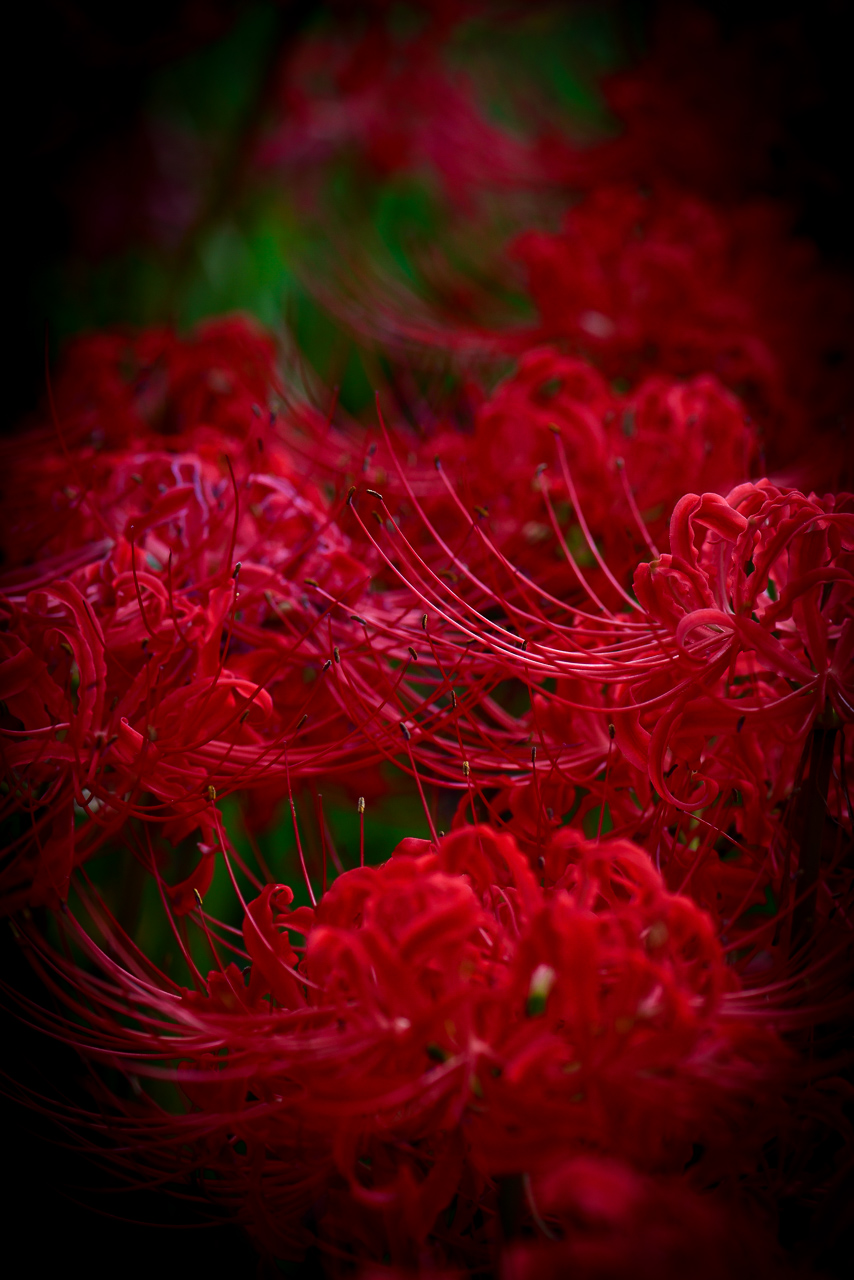
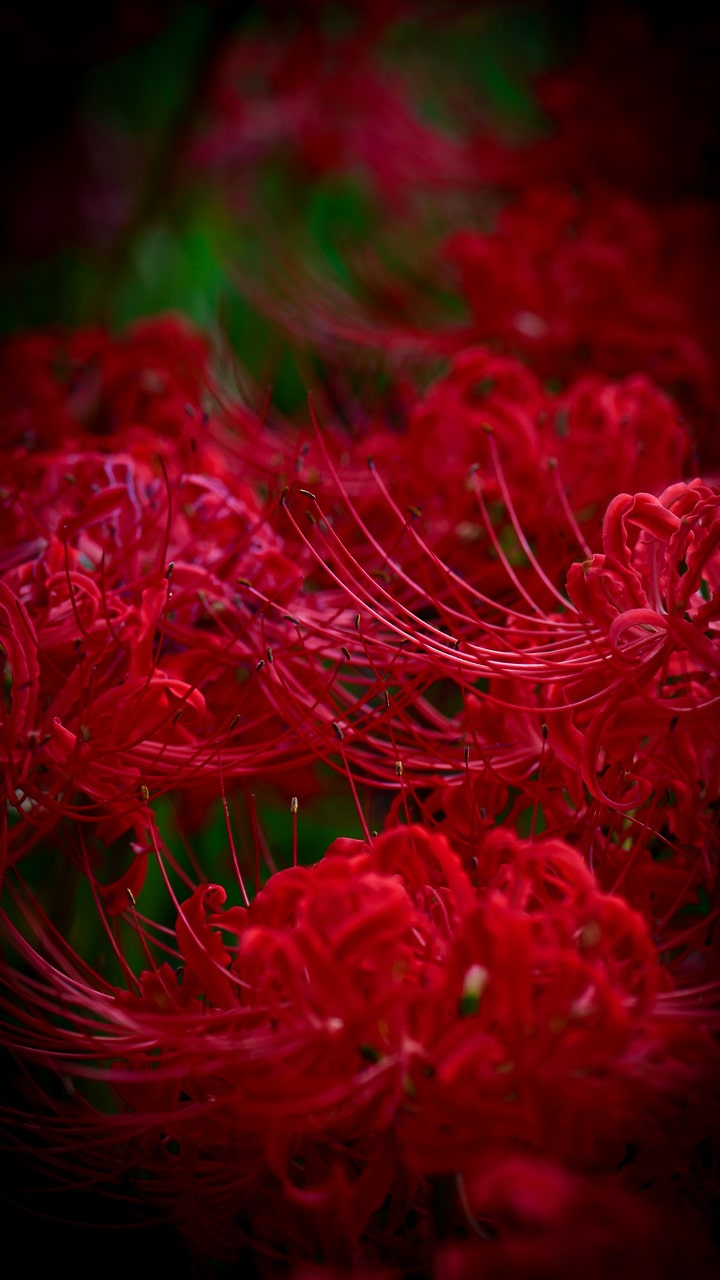
add image type

diff --git a/docs/index.html b/docs/index.html
@@ -85,7 +85,9 @@
     <amp-story standalone title="Joy of Pets" publisher="AMP tutorials" publisher-logo-src="assets/AMP-Brand-White-Icon.svg" poster-portrait-src="assets/cover.jpg">
       <amp-story-page id="cover">
         <amp-story-grid-layer template="fill">
-          <amp-img src="assets/cover_flower.webp" width="720" height="1280" layout="responsive"></amp-img>
+          <amp-img src="assets/cover_flower.webp" width="720" height="1280" layout="responsive">
+            <amp-img src="assets/cover_flower.jpg" width="720" height="1280" layout="responsive"></amp-img>
+          </amp-img>
         </amp-story-grid-layer>
         <amp-story-grid-layer template="vertical">
           <div animate-in="fly-in-top">
@@ -96,7 +98,9 @@
       </amp-story-page>
       <amp-story-page id="page1">
         <amp-story-grid-layer template="fill">
-            <amp-img src="assets/page_flower1.webp" width="720" height="1280" layout="responsive"> </amp-img>
+            <amp-img src="assets/page_flower1.webp" width="720" height="1280" layout="responsive">
+              <amp-img src="assets/page_flower1.jpg" width="720" height="1280" layout="responsive"></amp-img>
+            </amp-img>
           </amp-story-grid-layer>
           <amp-story-grid-layer template="vertical" class="bottom">
             <div animate-in="fly-in-bottom">
@@ -107,7 +111,9 @@
       </amp-story-page>
       <amp-story-page id="page2">
         <amp-story-grid-layer template="fill">
-          <amp-img src="assets/page_flower2.webp" width="720" height="1280" layout="responsive"></amp-img>
+          <amp-img src="assets/page_flower2.webp" width="720" height="1280" layout="responsive">
+            <amp-img src="assets/page_flower2.jpg" width="720" height="1280" layout="responsive"></amp-img>
+          </amp-img>
         </amp-story-grid-layer>
         <amp-story-grid-layer template="vertical" class="bottom">
           <div animate-in="fly-in-bottom">
@@ -118,7 +124,9 @@
       </amp-story-page>
       <amp-story-page id="page3">
         <amp-story-grid-layer template="fill">
-          <amp-img src="assets/page_flower3.webp" width="720" height="1280" layout="responsive"> </amp-img>
+          <amp-img src="assets/page_flower3.webp" width="720" height="1280" layout="responsive">
+            <amp-img src="assets/page_flower3.jpg" width="720" height="1280" layout="responsive"></amp-img>
+          </amp-img>
         </amp-story-grid-layer>
         <amp-story-grid-layer template="thirds">
           <div animate-in="drop" grid-area="middle-third">
